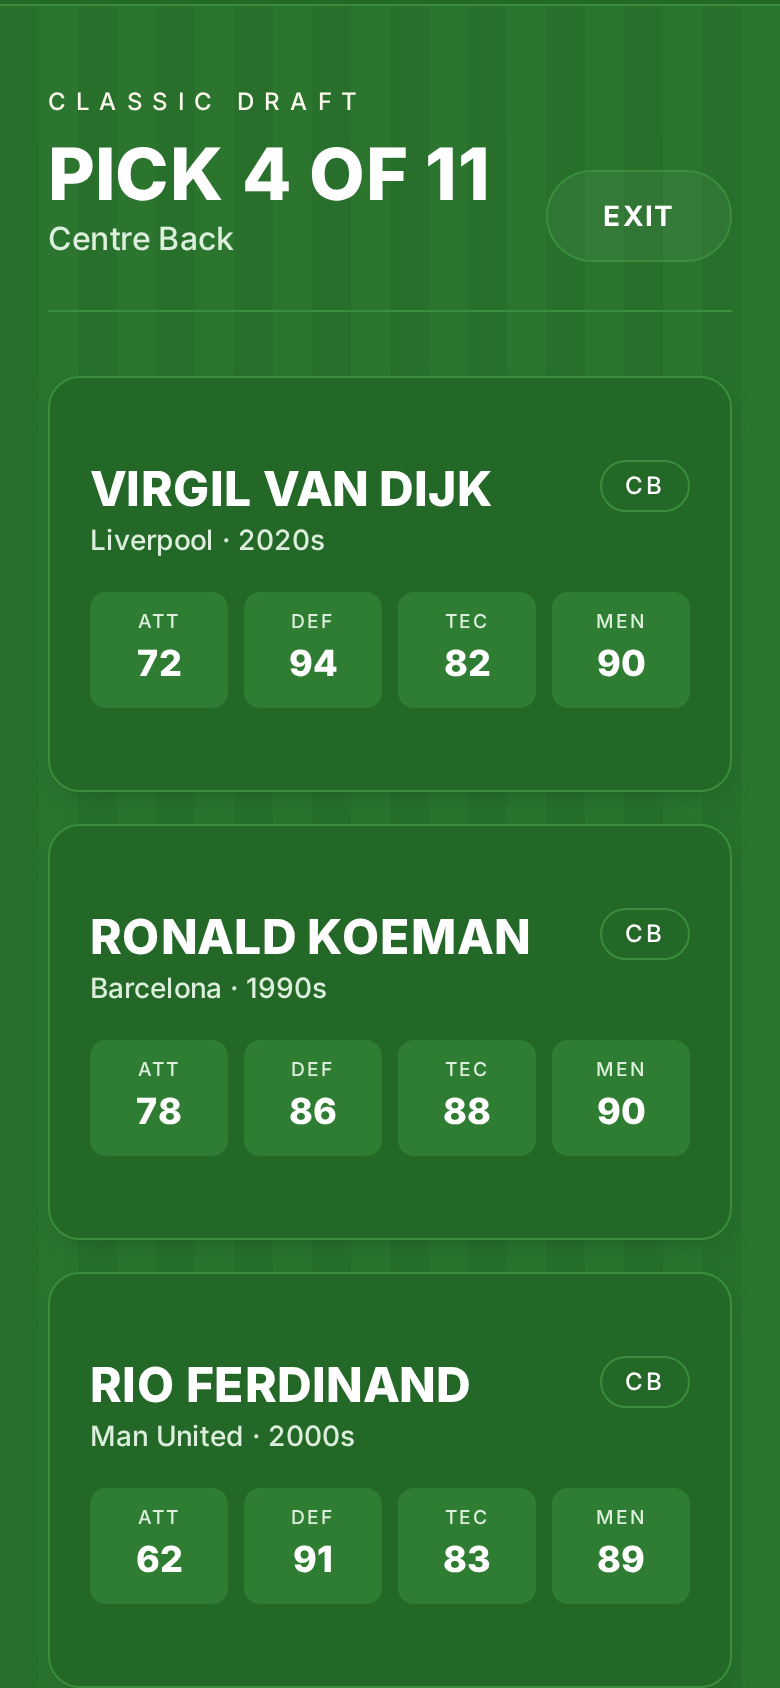
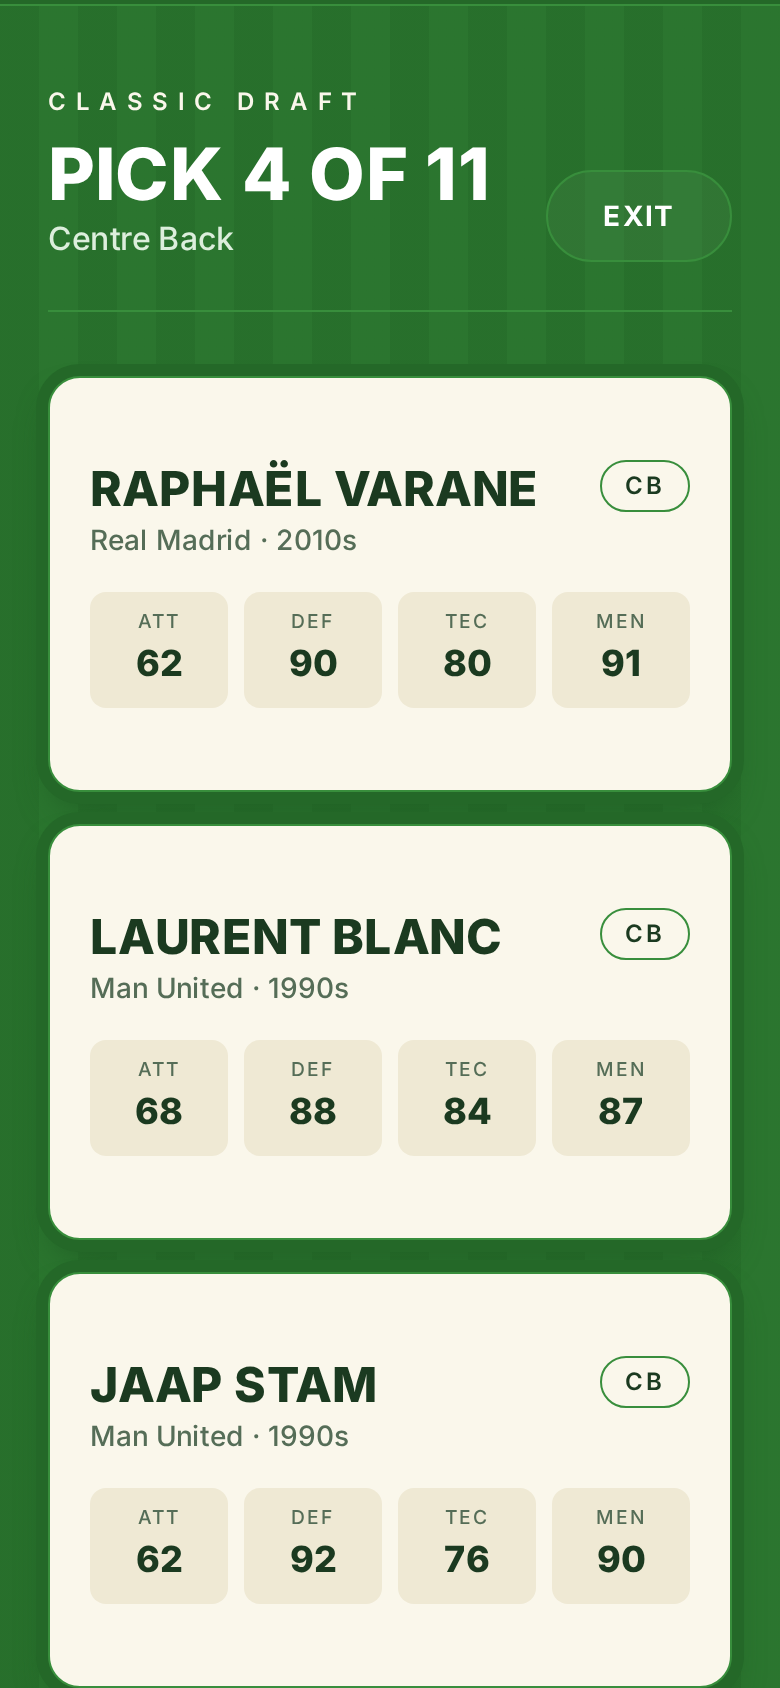
Brand v2: cream cards (#FAF7EB, ink text, #246828 surface, #1E5A22 shadow), AA-adjusted gold/red/muted on cards, labels Inter 600

diff --git a/src/styles.css b/src/styles.css
@@ -83,7 +83,6 @@
   --elite: oklch(0.7 0.2 330);
 
   --gradient-hero: transparent;
-  --gradient-card: linear-gradient(#246828, #246828);
   --gradient-accent: linear-gradient(100deg, #faf7eb, #ebf5eb);
   --shadow-glow: 0 10px 24px -14px rgb(0 0 0 / 0.55);
   --shadow-card: 0 6px 14px -6px #1e5a22;
@@ -114,6 +113,11 @@
     -webkit-font-smoothing: antialiased;
   }
 
+  /* Labels (small uppercase kickers, table heads, chips): Inter 600 per brand v2 */
+  :is(p, span, label, th, dt, div, li, a).uppercase {
+    font-weight: 600;
+  }
+
   h1,
   h2,
   h3 {
@@ -124,9 +128,41 @@
   }
 }
 
+/* Brand v2 cards: cream #FAF7EB with ink #1B3A20 text on a #246828 surface,
+   #1E5A22 shadow. Tokens are re-scoped so everything inside a card stays AA. */
 @utility surface {
-  background-image: var(--gradient-card);
-  box-shadow: var(--shadow-card);
+  --foreground: #1b3a20;
+  --card-foreground: #1b3a20;
+  --muted-foreground: #556d57;
+  --primary: #246828;
+  --primary-foreground: #faf7eb;
+  --secondary: #efe9d4;
+  --secondary-foreground: #1b3a20;
+  --muted: #efe9d4;
+  --background: #faf7eb;
+  --pitch: #246828;
+  --gold: #7d6429;
+  --accent: #7d6429;
+  --accent-foreground: #faf7eb;
+  --destructive: #b93557;
+  --gradient-accent: linear-gradient(#246828, #246828);
+  --color-foreground: #1b3a20;
+  --color-card-foreground: #1b3a20;
+  --color-muted-foreground: #556d57;
+  --color-primary: #246828;
+  --color-primary-foreground: #faf7eb;
+  --color-secondary: #efe9d4;
+  --color-secondary-foreground: #1b3a20;
+  --color-muted: #efe9d4;
+  --color-background: #faf7eb;
+  --color-pitch: #246828;
+  --color-gold: #7d6429;
+  --color-accent: #7d6429;
+  --color-accent-foreground: #faf7eb;
+  --color-destructive: #b93557;
+  color: #1b3a20;
+  background-color: #faf7eb;
+  box-shadow: 0 0 0 6px #246828, 0 10px 18px -4px #1e5a22;
   border: 1px solid var(--color-border);
 }
 

diff --git a/src/components/ResultCard.tsx b/src/components/ResultCard.tsx
@@ -22,7 +22,7 @@ export function ResultCard({
   rating: number;
   contextLabel?: string | undefined;
 }) {
-  const accent = campaign.perfect ? "#fae3ab" : campaign.champion ? "#ebf5eb" : "#d23c63";
+  const accent = campaign.perfect ? "#7d6429" : campaign.champion ? "#246828" : "#b93557";
 
   return (
     <div className="surface overflow-hidden rounded-2xl">
@@ -78,12 +78,12 @@ export function ResultCard({
               style={{
                 backgroundColor:
                   m.outcome === "W"
-                    ? "#ebf5eb"
+                    ? "#246828"
                     : m.outcome === "D"
-                      ? "#ffffff28"
-                      : "#d23c63",
+                      ? "#efe9d4"
+                      : "#b93557",
                 color:
-                  m.outcome === "W" ? "#1b3a20" : "#ffffff",
+                  m.outcome === "D" ? "var(--color-foreground)" : "#ffffff",
               }}
             >
               {m.outcome}
